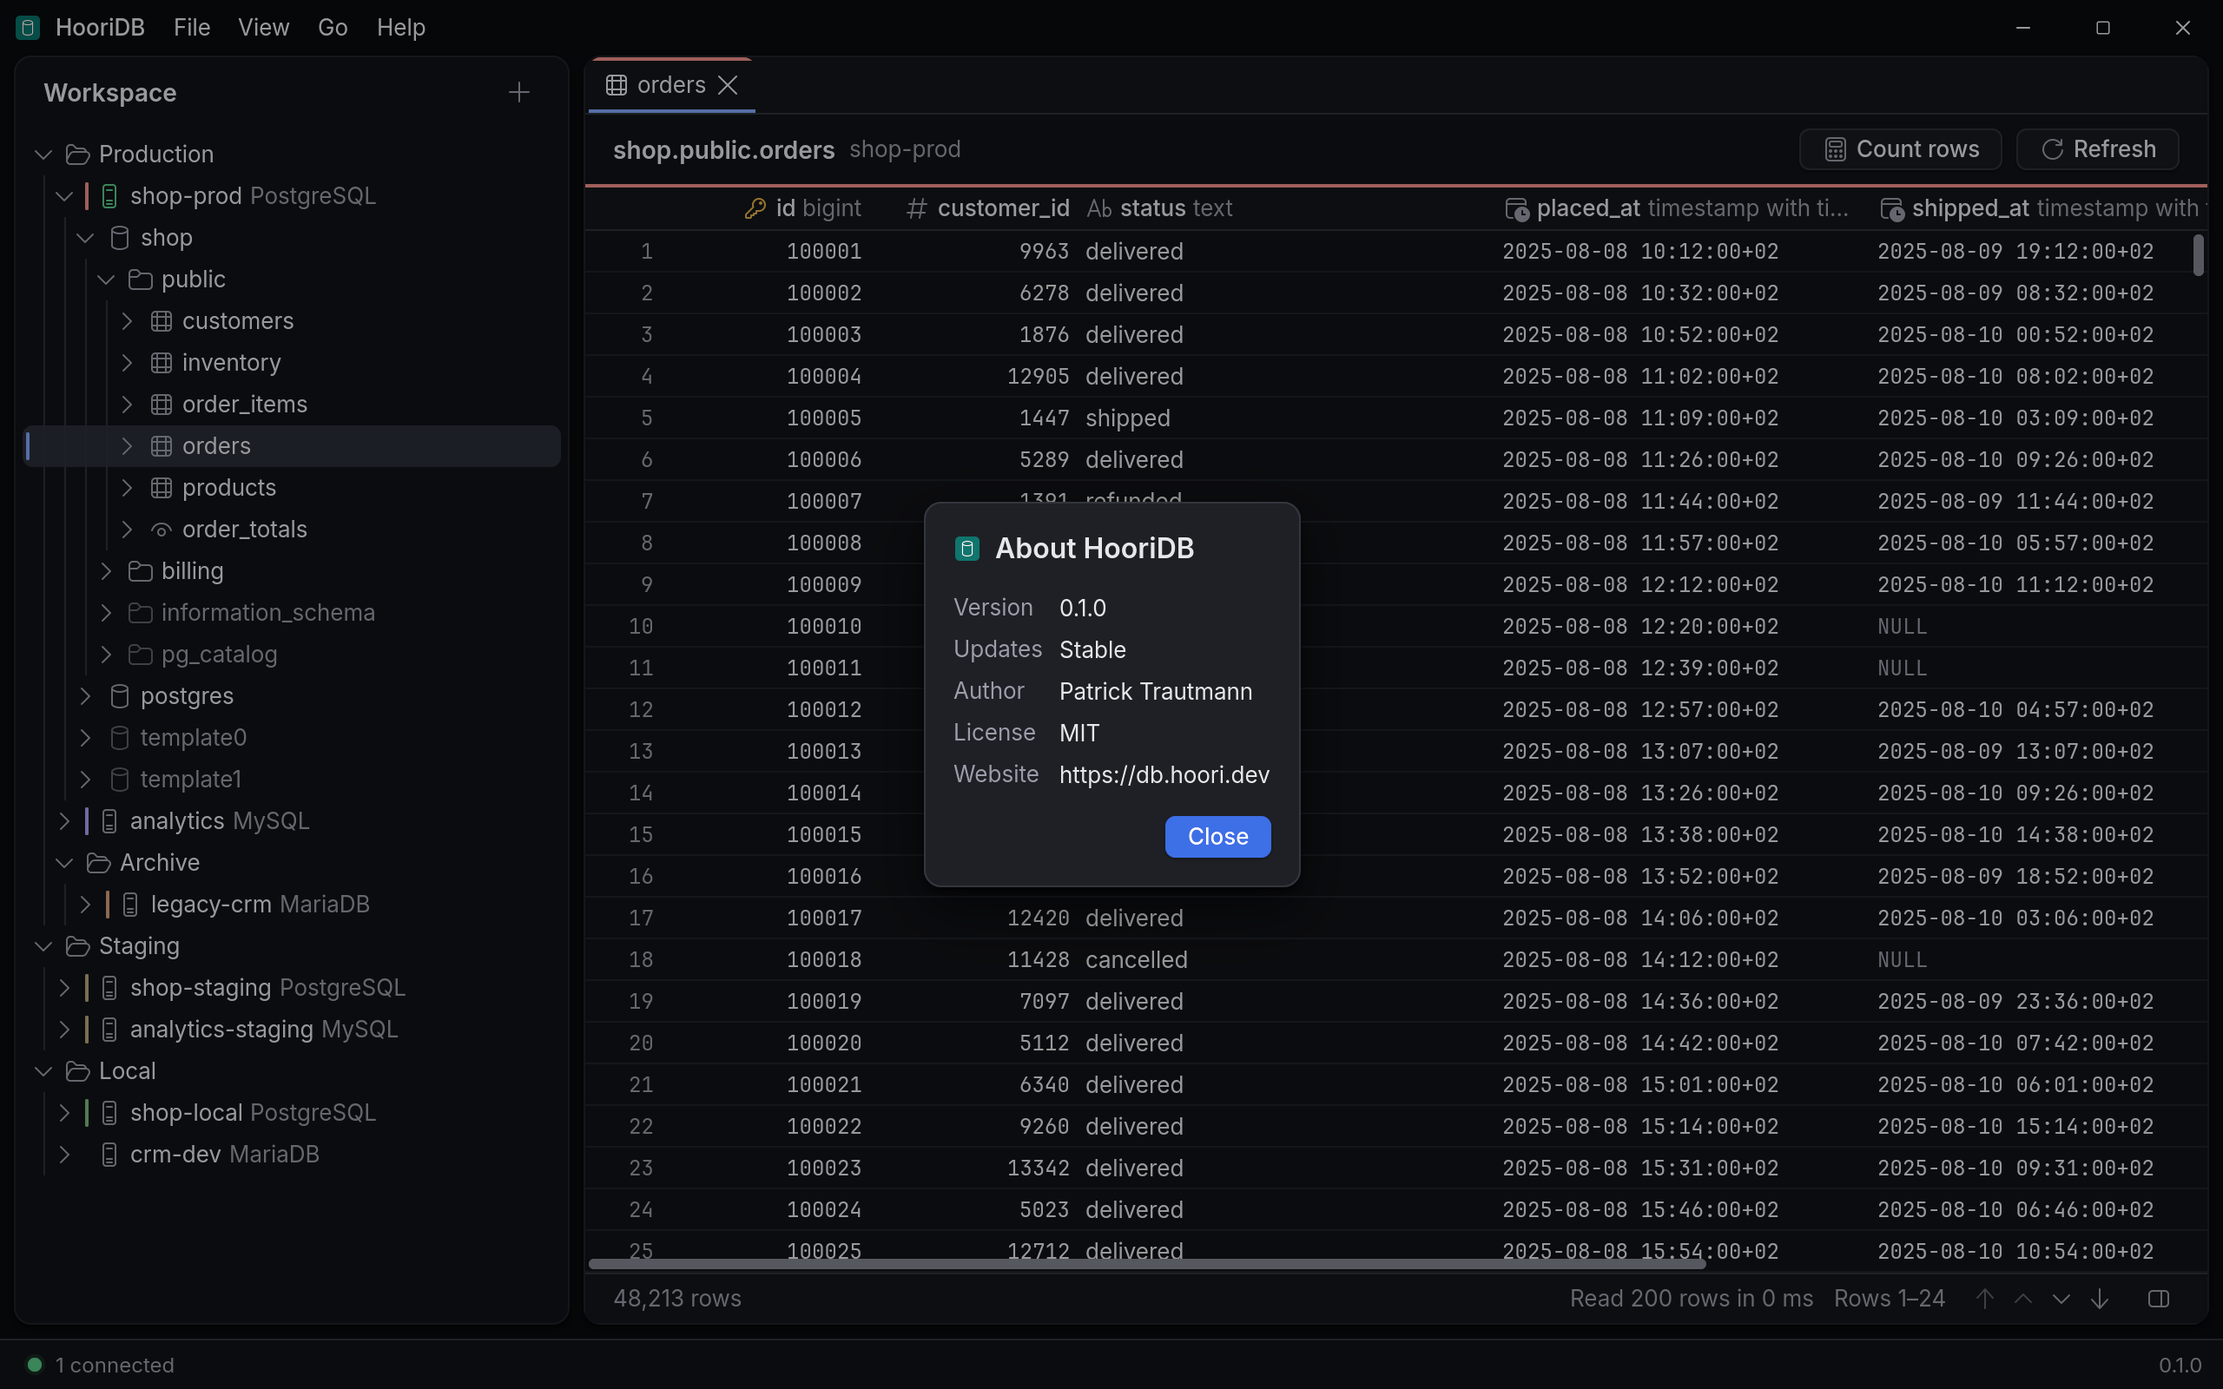
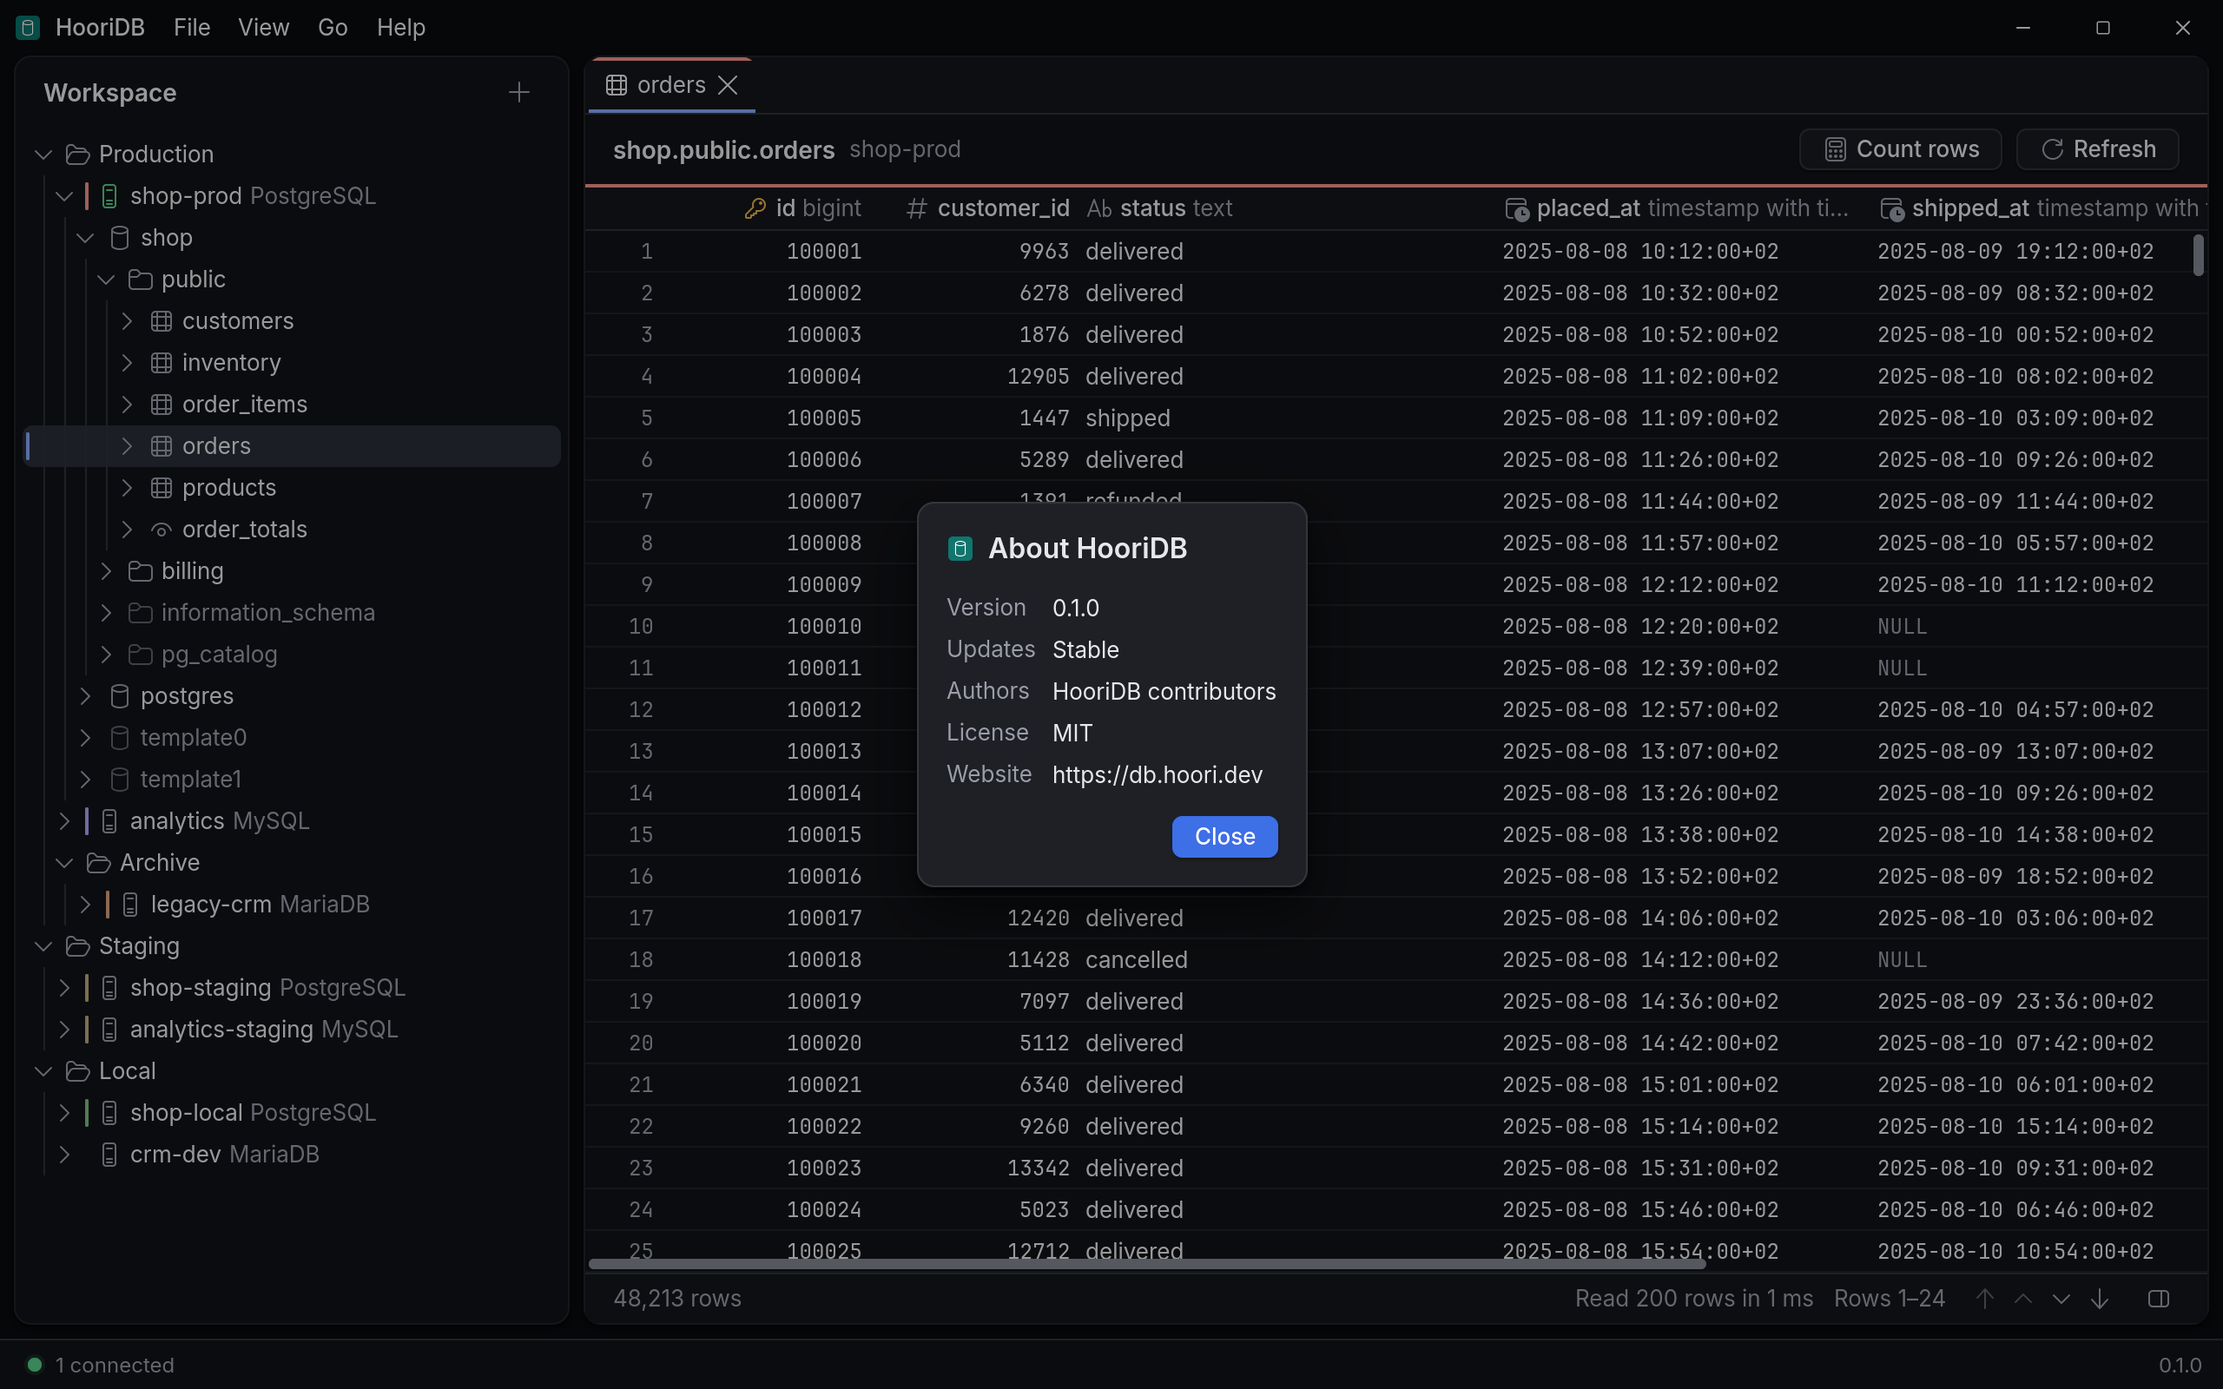
chore: name the HooriDB contributors as authors, not one person

Changed region(s): [[0.4062, 0.375, 0.5938, 0.625], [0.7188, 0.9062, 0.7812, 0.9375]]

diff --git a/docs/app/(home)/page.tsx b/docs/app/(home)/page.tsx
@@ -107,7 +107,7 @@ const content = {
     ],
   },
   footer: {
-    note: 'MIT License. Made by Patrick Trautmann.',
+    note: 'MIT License. Made by the HooriDB contributors.',
     links: [
       { text: 'Docs', href: '/docs' },
       { text: 'Releases', href: `${repository}/releases` },

diff --git a/app/src/test/java/dev/hoori/db/app/HooriDbTest.java b/app/src/test/java/dev/hoori/db/app/HooriDbTest.java
@@ -103,11 +103,11 @@ class HooriDbTest {
   }
 
   /**
-   * Help, About HooriDB shows the version, here a development build, its author, license and
+   * Help, About HooriDB shows the version, here a development build, its authors, license and
    * website, in either theme; Close and Enter close it. It waits while another dialog is open.
    */
   @Test
-  void aboutShowsTheVersionAuthorLicenseAndWebsite(@TempDir Path out) throws IOException {
+  void aboutShowsTheVersionAuthorsLicenseAndWebsite(@TempDir Path out) throws IOException {
     String open = """
         press role=menuitem label="Help"
         frame
@@ -159,7 +159,8 @@ class HooriDbTest {
           tree.contains("label=\"Version\" ") && tree.contains("value=\"Development build\""),
           tree);
       assertTrue(
-          tree.contains("label=\"Author\" ") && tree.contains("value=\"Patrick Trautmann\""), tree);
+          tree.contains("label=\"Authors\" ") && tree.contains("value=\"HooriDB contributors\""),
+          tree);
       assertTrue(tree.contains("label=\"License\" ") && tree.contains("value=\"MIT\""), tree);
       assertTrue(
           tree.contains("label=\"Website\" ") && tree.contains("value=\"https://db.hoori.dev\""),

diff --git a/app/src/main/java/dev/hoori/db/app/Frame.java b/app/src/main/java/dev/hoori/db/app/Frame.java
@@ -541,7 +541,7 @@ final class Frame {
         .key("uncommitted");
   }
 
-  /** The version that runs, its author, license and website. */
+  /** The version that runs, its authors, license and website. */
   private static El aboutDialog(State s) {
     float side = Theme.CURRENT.get().size().icon();
     El mark = AppIcon.appIcon(Math.round(side), HooriDb.COLOR, Symbol.DATABASE).size(side, side);
@@ -551,7 +551,7 @@ final class Frame {
         List.of(
             Properties.property("Version", s.version),
             Properties.property("Updates", s.channel() == Channel.NIGHTLY ? "Nightly" : "Stable"),
-            Properties.property("Author", "Patrick Trautmann"),
+            Properties.property("Authors", "HooriDB contributors"),
             Properties.property("License", "MIT"),
             Properties.property("Website", "https://db.hoori.dev")),
         null);

diff --git a/AGENTS.md b/AGENTS.md
@@ -2,7 +2,7 @@
 
 A database manager for the desktop: connect to databases, browse their schemas, run queries, look at and edit data. It is written in Java and draws its windows with [rethinkj UI](https://ui.rethinkj.com), a native, GPU-rendered UI framework, whose first app it is.
 
-Status: early. The app opens a frameless window with its menus, the workspace beside empty tabs, and a status line that counts the open connections and the consoles that may hold uncommitted work, and shows the version, which opens About; connections can be created, edited, duplicated and deleted, with their passwords in the system keyring and the rest in the workspace (`workspace.json`), a tree of folders and connections, which the first start fills from an earlier version's `connections.json` where it is missing, and tested from their dialog, which downloads the JDBC driver from Maven Central after asking: the recommended version, or one the connection chose from the repository's list. The sidebar, Workspace, shows folders, nested to any depth up to 240, beside the connections: its "+", the File menu and a folder's menu make a folder, named in a dialog, or a connection, which go into the folder selected or that of the connection selected, and a duplicate goes right after its original; a folder is renamed in a dialog, folders and connections move by Move to, which lists the top and every folder by its path, or by dragging them before, after or into a folder, in any order, and a move leaves a connection connected with its tabs; whether a folder is open is saved, and Delete… of one that holds something asks first, with the number of its connections, and moves what it holds up a level or deletes it, each connection as its own Delete… does after the questions of all their consoles, and then the folder; one whose password the keyring did not delete stays, with its folder, and the dialog names it. File, Drivers… lists the versions downloaded of each kind with their sizes, downloads one and deletes one that no open connection uses. Opening a connection in the tree connects and reads its databases, schemas, tables and views, and columns, one level at a time as they are opened; several connections are open at once. A double press or Enter on a table or view opens its rows in a tab, read late in pages on its connection's lane, with the rows in view in its status line and buttons that scroll a page back or on, or to the first or last row; tabs move and tear off into windows of their own. A moment, a timestamp with a time zone, shows and is copied in the computer's time zone, with the offset it has there. Shift+Enter in a grid, or the button in its status line, opens a panel beside it with the value of the current cell, which follows the selection: JSON (PostgreSQL's `json` and `jsonb`, MySQL's and MariaDB's `json`) formatted and colored, and with its first problem marked where it is not valid; a table reads a value cut short whole by its row's primary key, and a console's result shows the start it holds. A connection can carry a color, which marks its row and its tabs. "New console", in a connection's menu or the File menu, opens a tab with an SQL editor that runs the statement at the caret, the selection or all of them on a connection of its own, with each result's rows read in portions as they scroll, a count for a change, and a log of what ran in Messages, an error at the place the server names underlined in the editor with the caret there, and completions of keywords and of the schemas, tables and columns the tree read or reads for it; it switches databases and cancels what runs. It commits each statement by itself in Auto, and in Manual Commit and Rollback end the transaction, whose state it shows as the server says it, and as possibly open where the server has not said; closing it, switching auto-commit or the database, disconnecting, changing or deleting its connection and closing HooriDB ask first while one may be open. In Manual, and while a transaction is open, it reads each result whole before showing it and keeps the first 100,000 rows of each, asking first where the server's plan estimates more; it asks before an UPDATE or DELETE without a WHERE in any mode; while a change of its connection is saved or deleted it runs nothing. What finishing a session's work reports, a read's commit as it is given up, Commit's or Rollback's failure or warnings, a closing session's failure, and any outcome of a call on its session that the console no longer takes, as when it was cancelled or closed, goes to a list of notices in the main window until dismissed, and stops what waited on it; a Commit or Rollback that fails or does not answer can be left by ending the connection; closing a session ends within a bound, and Exit, also without the workspace's file, waits for the sessions it ends and stays open on a failure. The system keyring's calls run one after another; one that does not answer can be given up, and what is asked of the keyring next waits behind it; a saved password it does not give in time is asked of the user, and where the dialog does not know what the keyring holds, not keeping the password there deletes it. A command palette (Control+Shift+P, or the View menu) runs the menus' commands in its window, and after `@` (Control+P) finds the tables and views the tree has read by name and opens one, reading a database it has not read when chosen; the menus give keys to a new console, closing a tab, the next and previous tab, and the focus on the tree or the tab. Consoles are kept: their texts, connections and databases are saved a moment after each change, beside the workspace, and reopened unconnected at the next start; each statement run from a console goes into its connection's history (`history.json`, at most 1,000 a connection, owner-only), which History lists, searches, inserts from and clears. Run from its app image, HooriDB looks for a newer GitHub release at each start, in the channel Help chooses, Stable or Nightly (at first that of its own version), downloads it and restarts into it through its own Exit when asked; the new version confirms once its window has shown its first frame, and the updater's helper puts the old version back where it does not, and a version put back is not offered again until a higher one comes out. Help, About HooriDB shows the version that runs, its channel of updates, its author, license and website. Started from the unpacked Linux bundle, it puts itself into the application menu, which gives its windows their icon in the dock. Nothing can be edited, filtered or sorted yet.
+Status: early. The app opens a frameless window with its menus, the workspace beside empty tabs, and a status line that counts the open connections and the consoles that may hold uncommitted work, and shows the version, which opens About; connections can be created, edited, duplicated and deleted, with their passwords in the system keyring and the rest in the workspace (`workspace.json`), a tree of folders and connections, which the first start fills from an earlier version's `connections.json` where it is missing, and tested from their dialog, which downloads the JDBC driver from Maven Central after asking: the recommended version, or one the connection chose from the repository's list. The sidebar, Workspace, shows folders, nested to any depth up to 240, beside the connections: its "+", the File menu and a folder's menu make a folder, named in a dialog, or a connection, which go into the folder selected or that of the connection selected, and a duplicate goes right after its original; a folder is renamed in a dialog, folders and connections move by Move to, which lists the top and every folder by its path, or by dragging them before, after or into a folder, in any order, and a move leaves a connection connected with its tabs; whether a folder is open is saved, and Delete… of one that holds something asks first, with the number of its connections, and moves what it holds up a level or deletes it, each connection as its own Delete… does after the questions of all their consoles, and then the folder; one whose password the keyring did not delete stays, with its folder, and the dialog names it. File, Drivers… lists the versions downloaded of each kind with their sizes, downloads one and deletes one that no open connection uses. Opening a connection in the tree connects and reads its databases, schemas, tables and views, and columns, one level at a time as they are opened; several connections are open at once. A double press or Enter on a table or view opens its rows in a tab, read late in pages on its connection's lane, with the rows in view in its status line and buttons that scroll a page back or on, or to the first or last row; tabs move and tear off into windows of their own. A moment, a timestamp with a time zone, shows and is copied in the computer's time zone, with the offset it has there. Shift+Enter in a grid, or the button in its status line, opens a panel beside it with the value of the current cell, which follows the selection: JSON (PostgreSQL's `json` and `jsonb`, MySQL's and MariaDB's `json`) formatted and colored, and with its first problem marked where it is not valid; a table reads a value cut short whole by its row's primary key, and a console's result shows the start it holds. A connection can carry a color, which marks its row and its tabs. "New console", in a connection's menu or the File menu, opens a tab with an SQL editor that runs the statement at the caret, the selection or all of them on a connection of its own, with each result's rows read in portions as they scroll, a count for a change, and a log of what ran in Messages, an error at the place the server names underlined in the editor with the caret there, and completions of keywords and of the schemas, tables and columns the tree read or reads for it; it switches databases and cancels what runs. It commits each statement by itself in Auto, and in Manual Commit and Rollback end the transaction, whose state it shows as the server says it, and as possibly open where the server has not said; closing it, switching auto-commit or the database, disconnecting, changing or deleting its connection and closing HooriDB ask first while one may be open. In Manual, and while a transaction is open, it reads each result whole before showing it and keeps the first 100,000 rows of each, asking first where the server's plan estimates more; it asks before an UPDATE or DELETE without a WHERE in any mode; while a change of its connection is saved or deleted it runs nothing. What finishing a session's work reports, a read's commit as it is given up, Commit's or Rollback's failure or warnings, a closing session's failure, and any outcome of a call on its session that the console no longer takes, as when it was cancelled or closed, goes to a list of notices in the main window until dismissed, and stops what waited on it; a Commit or Rollback that fails or does not answer can be left by ending the connection; closing a session ends within a bound, and Exit, also without the workspace's file, waits for the sessions it ends and stays open on a failure. The system keyring's calls run one after another; one that does not answer can be given up, and what is asked of the keyring next waits behind it; a saved password it does not give in time is asked of the user, and where the dialog does not know what the keyring holds, not keeping the password there deletes it. A command palette (Control+Shift+P, or the View menu) runs the menus' commands in its window, and after `@` (Control+P) finds the tables and views the tree has read by name and opens one, reading a database it has not read when chosen; the menus give keys to a new console, closing a tab, the next and previous tab, and the focus on the tree or the tab. Consoles are kept: their texts, connections and databases are saved a moment after each change, beside the workspace, and reopened unconnected at the next start; each statement run from a console goes into its connection's history (`history.json`, at most 1,000 a connection, owner-only), which History lists, searches, inserts from and clears. Run from its app image, HooriDB looks for a newer GitHub release at each start, in the channel Help chooses, Stable or Nightly (at first that of its own version), downloads it and restarts into it through its own Exit when asked; the new version confirms once its window has shown its first frame, and the updater's helper puts the old version back where it does not, and a version put back is not offered again until a higher one comes out. Help, About HooriDB shows the version that runs, its channel of updates, its authors, license and website. Started from the unpacked Linux bundle, it puts itself into the application menu, which gives its windows their icon in the dock. Nothing can be edited, filtered or sorted yet.
 
 - Later home: https://db.hoori.dev
 - License: MIT, as rethinkj UI's and rethinkj Updater's ([LICENSE](LICENSE)). The bundle carries it in `legal/`, beside the licenses of what it ships.
